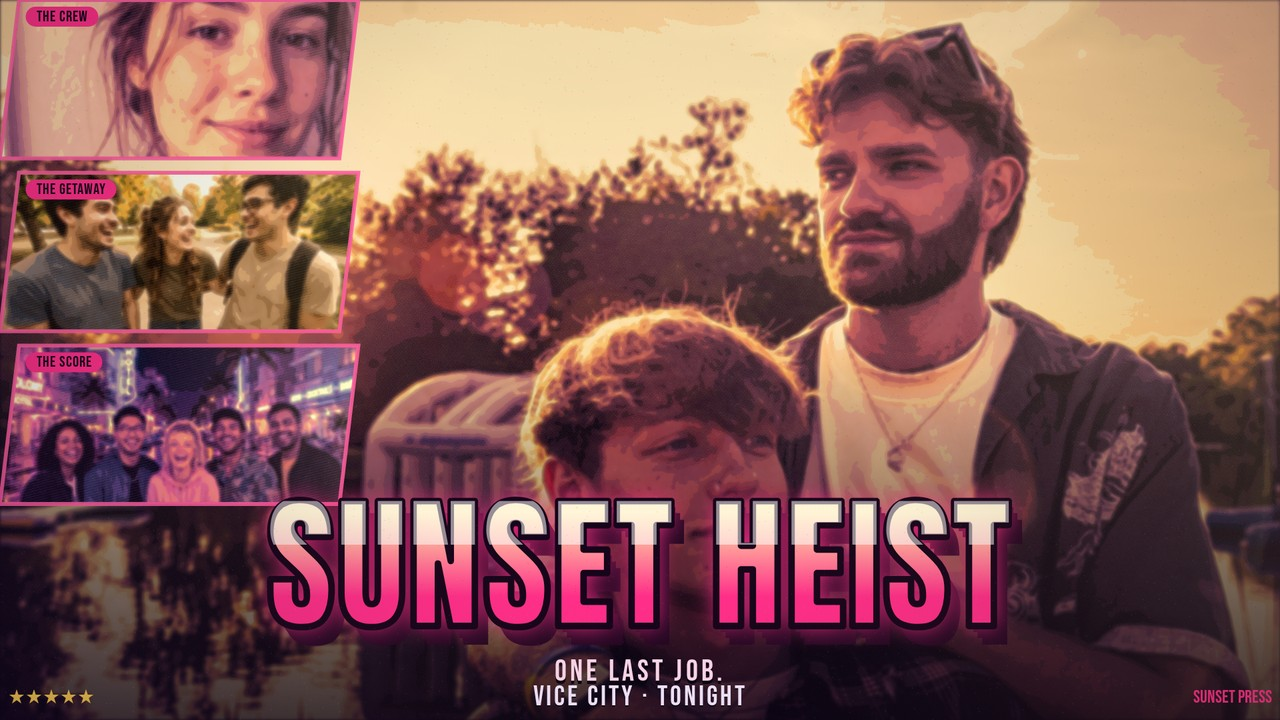
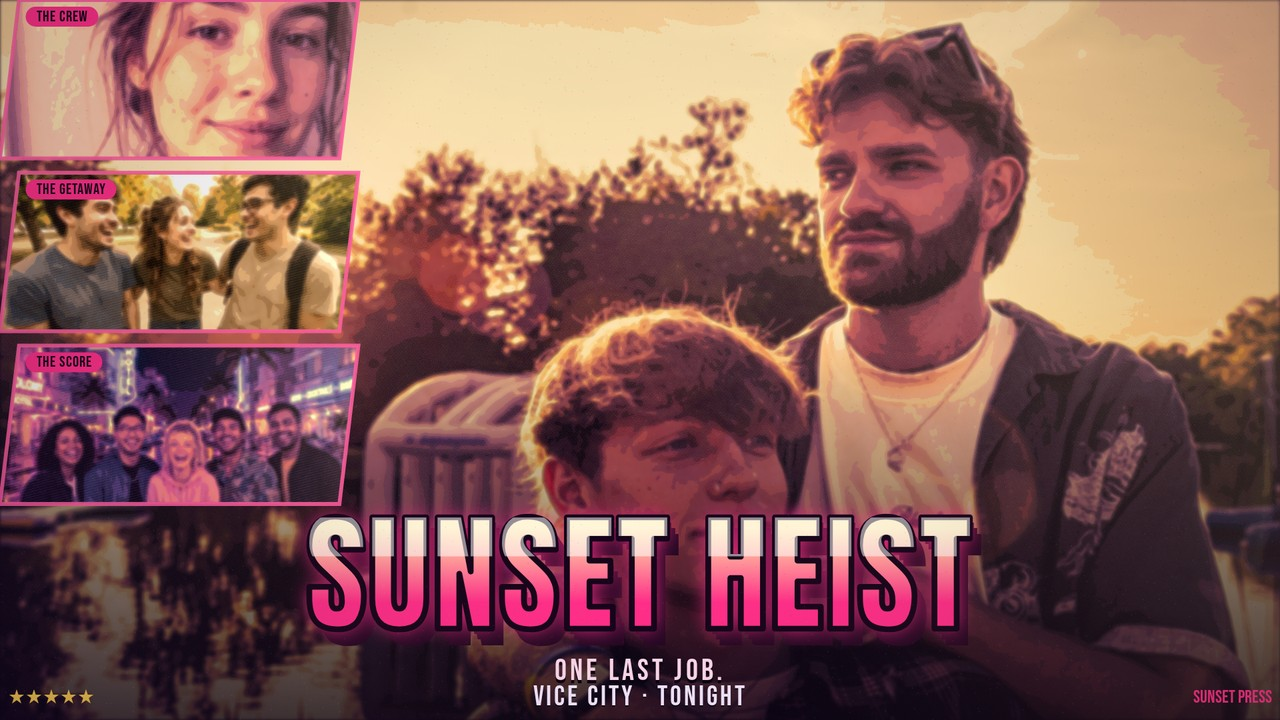
Fix round 9: panels side control, wide title shrink+lower, label dedup
- Panels toggle (Auto/Left/Right/Off) in the editor + ?panels= shot
  param; Auto keeps the focus rule, explicit sides fix photos with
  faces on both sides. Shot 2 (square heist-duo): panels right, both
  faces fully visible. Shot 3 (editor, group-night): panels off,
  leftmost person visible.
- Wide wordmark ~5% smaller (minFill 0.55 -> 0.52) + 1% lower default:
  the young man's chin clears the title with no subtitle/tagline
  collision (do NOT just lower 2-3% per Claude).
- Title height readout is just the value now (was duplicated label).
- THE CREW / THE GETAWAY panels get the same +20% brightness lift
  as THE SCORE, so the stack reads as one brightness.

Changed region(s): [[0.1875, 0.6722, 0.8125, 0.9167], [0.5, 0.9167, 0.5625, 0.9472], [0.4375, 0.9167, 0.4688, 0.9472]]

diff --git a/app/src/render.js b/app/src/render.js
@@ -40,7 +40,21 @@ const SP_SIZES = {
  * wordmark across his mouth in square and his eyes in portrait. The
  * footer rides with the title so the tagline never lands on it, and
  * is clamped to keep the footer band inside the canvas. */
-function spLayoutFor(sizeName, flip, titleDY) {
+/* Fix round 9: panel side control. `panelsSide` is 'auto' (default),
+ * 'left', 'right' or 'off'. Auto keeps the focus rule (flip left when
+ * the subject focus sits right of centre, so the subject is never
+ * covered). Explicit left/right force that side — for photos with
+ * faces on both sides, where the focus rule picks the wrong one — and
+ * off drops the panel stack entirely. Returns {flip, off}. */
+function spResolvePanels(state) {
+  const side = (state && state.panelsSide) || 'auto';
+  if (side === 'off') return { flip: false, off: true };
+  if (side === 'left') return { flip: true, off: false };
+  if (side === 'right') return { flip: false, off: false };
+  return { flip: !!(state.focus && state.focus.x > 0.5), off: false };
+}
+
+function spLayoutFor(sizeName, flip, titleDY, noPanels) {
   // (fix round 2, item 8: the portrait band was too tall — the tagline
   // sat ~200 px above the footer with dead air between them. The band
   // is shorter now and the footer rides up to meet it.)
@@ -91,7 +105,9 @@ function spLayoutFor(sizeName, flip, titleDY) {
     layout.title.y += dy;
     layout.footer.y = Math.min(1 - layout.footer.h, layout.footer.y + dy);
   }
-  if (flip) {
+  if (noPanels) {
+    layout.supports = [];
+  } else if (flip) {
     layout.supports = layout.supports.map((f) => ({ ...f, x: 1 - f.x - f.w }));
   }
   return layout;
@@ -272,12 +288,15 @@ function spRenderPoster(state, sizeName, scale, imgMap) {
   const style = SP_STYLES[state.style] || SP_STYLES.sunset;
   // Fix round 5, item 1: the panel stack flips to the LEFT when the
   // subject focus sits right of centre, so the subject is never
-  // covered, whatever photo is loaded.
-  const flipPanels = !!(state.focus && state.focus.x > 0.5);
+  // covered, whatever photo is loaded. Fix round 9: the side is
+  // resolved through spResolvePanels — 'auto' keeps that focus rule,
+  // explicit left/right/off come from the editor toggle or ?panels=.
+  const panels = spResolvePanels(state);
+  const flipPanels = panels.flip;
   // Fix round 8: per-size title height from state (0 if unset, e.g.
   // a saved state from before the control existed).
   const titleDY = (state.titleY && state.titleY[sizeName]) || 0;
-  const L = spLayoutFor(sizeName, flipPanels, titleDY);
+  const L = spLayoutFor(sizeName, flipPanels, titleDY, panels.off);
   const R = (f) => ({ x: f.x * W, y: f.y * H, w: f.w * W, h: f.h * H });
 
   const canvas = spCanvas(W, H);
@@ -381,10 +400,14 @@ function spRenderPoster(state, sizeName, scale, imgMap) {
       || state.photos[panel.photo] === 'samples/palm-beach.jpg';
     // Fix round 8: THE SCORE (group-night) reads dark — +20% brightness
     // in every size. The wide 1.12 lift stays for the other panels.
-    const isScore = state.photos[panel.photo] === 'samples/group-night.jpg';
+    // Fix round 9: THE CREW (selfie-day) and THE GETAWAY (friends-day)
+    // read just as dark next to it — the same +20% lift for all three
+    // panel photos, so the stack reads as one brightness.
+    const SP_BRIGHT_PANELS = ['samples/group-night.jpg', 'samples/selfie-day.jpg', 'samples/friends-day.jpg'];
+    const needsLift = SP_BRIGHT_PANELS.includes(state.photos[panel.photo]);
     let bright = sizeName === 'wide' ? 1.12 : 1;
     let sat = sizeName === 'wide' ? 0.92 : 1;
-    if (isScore) bright = Math.max(bright, 1.2);
+    if (needsLift) bright = Math.max(bright, 1.2);
     if (isShore) sat = 1.25;
     const filt = (bright !== 1 || sat !== 1)
       ? 'brightness(' + bright.toFixed(2) + ') saturate(' + sat.toFixed(2) + ')' : 'none';
@@ -435,10 +458,14 @@ function spRenderPoster(state, sizeName, scale, imgMap) {
   // Fix round 5, item 4: on 16:9 the wordmark is capped at 55% width and
   // sits a little higher (0.47) — at 62%/0.50 its extrusion reaches the
   // tagline slot and the tagline lands on the footer subtitle.
+  // Fix round 9: 52% instead (~5% smaller) and the wide title sits
+  // 1% lower by default (see titleY) — the real-photo hero's low chin
+  // still grazed the wordmark's top edge at 55%. Do NOT just lower it:
+  // the subtitle/tagline sit tight below and would collide.
   const titleCx = tR.x + tR.w / 2;
   const titleCy = tR.y + tR.h * (sizeName === 'wide' ? 0.47 : 0.50);
   const titleSize = spDrawTitle(ctx, state.title, titleCx, titleCy, tR.w, tR.h * 0.70, style,
-    sizeName === 'wide' ? 0.55 : 0.62);
+    sizeName === 'wide' ? 0.52 : 0.62);
 
   if (state.tagline) {
     // Bebas Neue, not script/serif (fix round 2, item 6): the tagline

diff --git a/app/src/ui.js b/app/src/ui.js
@@ -48,8 +48,15 @@ function spDefaultState() {
     // Fix round 8: per-size title height (fraction of canvas height,
     // + = down). Defaults clear the real-photo hero's low front face:
     // square +0.03 (his chin grazed the wordmark), portrait +0.16
-    // (his eyes sat behind it), wide 0 (already clear).
-    titleY: { square: 0.03, portrait: 0.16, wide: 0 },
+    // (his eyes sat behind it), wide +0.01 (fix round 9: with the
+    // ~5% smaller wide wordmark, 1% lower clears his chin without
+    // pushing the tagline into the footer).
+    titleY: { square: 0.03, portrait: 0.16, wide: 0.01 },
+    // Fix round 9: panel side — 'auto' (default, focus rule: the side
+    // that does not cover the subject), 'left', 'right' or 'off'.
+    // Explicit sides fix photos with faces on both sides, where the
+    // focus rule picks the wrong one (heist-duo square, group-night).
+    panelsSide: 'auto',
     // Sunset backdrop OFF by default (fix round 4, item 2): the hero is
     // one full photo; the procedural skyline is opt-in via the toggle.
     backdrop: false,
@@ -119,9 +126,11 @@ function spLayoutPx() {
   const W = dims.w * scale;
   const H = dims.h * scale;
   // Fix round 5, item 1: same flip rule as the renderer — the overlay
-  // rects must sit where the panels actually are.
-  const L = spLayoutFor(spState.size, !!(spState.focus && spState.focus.x > 0.5),
-    (spState.titleY && spState.titleY[spState.size]) || 0);
+  // rects must sit where the panels actually are. Fix round 9: resolved
+  // through spResolvePanels, so the toggle/?panels= is honoured here too.
+  const panels = spResolvePanels(spState);
+  const L = spLayoutFor(spState.size, panels.flip,
+    (spState.titleY && spState.titleY[spState.size]) || 0, panels.off);
   const R = (f) => ({ x: f.x * W, y: f.y * H, w: f.w * W, h: f.h * H });
   return { W, H, hero: R(L.hero), supports: L.supports.map(R), title: R(L.title), footer: R(L.footer) };
 }
@@ -290,7 +299,11 @@ function spSyncInputs() {
   const ty = spState.titleY || {};
   const cur = ty[spState.size] == null ? 0 : ty[spState.size];
   $('titleYInput').value = Math.round(cur * 100);
-  $('titleYNote').textContent = 'Title height: ' + (cur > 0 ? '+' : '') + Math.round(cur * 100) + '%';
+  // Fix round 9: the readout is just the value now — the field label
+  // above already says "Title height" (was duplicated: "Title height"
+  // label + "Title height: 0%" readout).
+  $('titleYNote').textContent = (cur > 0 ? '+' : '') + Math.round(cur * 100) + '%';
+  spSyncPanelsTabs();
   spBuildLabels();
   spBuildStrip();
   spBuildThumbs();
@@ -443,6 +456,12 @@ function spApplyShotParams() {
   if (shot === 'portrait') spState.size = 'portrait';
   if (shot === 'wide') spState.size = 'wide';
   if (shot === 'cover' || shot === 'editor') spState.size = spState.size || 'square';
+  // Fix round 9: ?panels=auto|left|right|off overrides the panel side
+  // for the current state (shot params use it to pin the side that
+  // keeps every face visible).
+  if (q.get('panels') && ['auto', 'left', 'right', 'off'].includes(q.get('panels'))) {
+    spState.panelsSide = q.get('panels');
+  }
   // Fix round 8: ?titley=+0.16 overrides the title height for the
   // current size (fraction of canvas height, + = down).
   if (q.get('titley') !== null) {
@@ -485,10 +504,28 @@ $('titleYInput').addEventListener('input', (e) => {
   if (!spState.titleY) spState.titleY = { square: 0, portrait: 0, wide: 0 };
   const cur = parseInt(e.target.value, 10) / 100;
   spState.titleY[spState.size] = cur;
-  $('titleYNote').textContent = 'Title height: ' + (cur > 0 ? '+' : '') + Math.round(cur * 100) + '%';
+  $('titleYNote').textContent = (cur > 0 ? '+' : '') + Math.round(cur * 100) + '%';
   spScheduleRender();
 });
 $('titleYInput').addEventListener('change', () => spPushUndo());
+/* Fix round 9: panels side control — Auto (focus rule), Left, Right,
+ * Off. The default (Auto) picks the side that does not cover the
+ * subject; explicit sides fix photos with faces on both sides. */
+function spSyncPanelsTabs() {
+  const cur = spState.panelsSide || 'auto';
+  document.querySelectorAll('#panelsTabs button').forEach((b) => {
+    b.classList.toggle('on', b.dataset.panels === cur);
+  });
+}
+document.querySelectorAll('#panelsTabs button').forEach((b) => {
+  b.addEventListener('click', () => {
+    if (spState.panelsSide === b.dataset.panels) return;
+    spPushUndo();
+    spState.panelsSide = b.dataset.panels;
+    spSyncPanelsTabs();
+    spScheduleRender();
+  });
+});
 document.querySelectorAll('#sizeTabs button').forEach((b) => {
   b.addEventListener('click', () => {
     if (spState.size === b.dataset.size) return;

diff --git a/app/index.html b/app/index.html
@@ -31,6 +31,13 @@
       <p class="hint">Each style sets the grade and lettering.</p>
       <div class="styles" id="styleCards"></div>
       <label class="toggle"><input type="checkbox" id="backdropToggle"> Sunset backdrop — skyline behind the hero</label>
+      <p class="hint">Panels — which side the supporting panels sit on. Auto picks the side that does not cover the subject.</p>
+      <div class="sizes four" id="panelsTabs">
+        <button type="button" data-panels="auto" class="on">Auto</button>
+        <button type="button" data-panels="left">Left</button>
+        <button type="button" data-panels="right">Right</button>
+        <button type="button" data-panels="off">Off</button>
+      </div>
     </section>
 
     <section>
@@ -46,7 +53,7 @@
       </label>
       <label class="field">Title height
         <input id="titleYInput" type="range" min="-8" max="22" step="1" value="0">
-        <span class="hint" id="titleYNote">Title height: 0%</span>
+        <span class="hint" id="titleYNote">0%</span>
       </label>
       <div class="labels" id="labelInputs"></div>
     </section>

diff --git a/app/style.css b/app/style.css
@@ -97,6 +97,8 @@ body {
  * 900 px. One row of three compact buttons, size on top and dimensions
  * small underneath, frees the room Export needs. */
 .sizes { display: grid; grid-template-columns: 1fr 1fr 1fr; gap: 6px; margin-bottom: 8px; }
+/* Fix round 9: the panels side control has four buttons. */
+.sizes.four { grid-template-columns: repeat(4, 1fr); }
 .sizes button {
   text-align: center; background: #1c0a28; color: #f5e9ff; border: 1px solid #3a1a52;
   border-radius: 8px; padding: 6px 4px; cursor: pointer; font-size: 13px; font-weight: 700;
